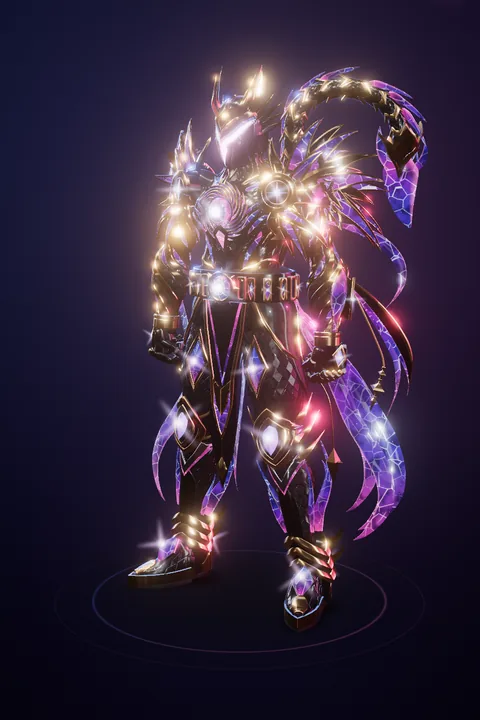
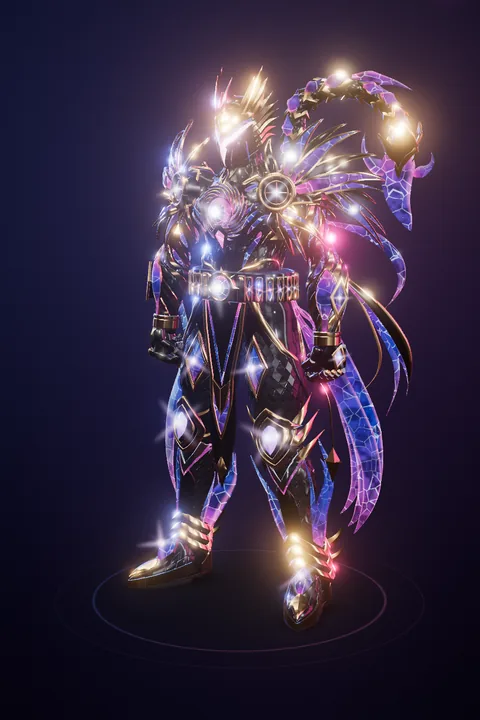
Checkpoint: Rexonance 3D viewer look pass in progress (10)
Work in progress from the viewer's material and lighting tuning pass; not
reviewed yet.

Claude-Session: https://claude.ai/code/session_01FA5sTyrULr2UMs5MDrUr75

Changed region(s): [[0.25, 0.0306, 0.9688, 0.8861]]

diff --git a/src/lib/rexonance-3d/materials.ts b/src/lib/rexonance-3d/materials.ts
@@ -232,7 +232,7 @@ const CRYSTAL_EMISSIVE = /* glsl */ `
   rxEmit += mix( vec3( 0.85, 0.92, 1.0 ), vec3( 1.0, 0.75, 0.95 ), rxSeedB ) * rxSpark * 6.0;
   rxEmit += mix( RX_ICE, RX_HOT, rxG ) * rxFres * 0.55;
   rxEmit += rxCol * smoothstep( 0.82, 1.0, rxVv ) * 0.45;
-  totalEmissiveRadiance += rxEmit * rxCrystalGlow;
+  totalEmissiveRadiance += rxEmit;
   diffuseColor.rgb = rxCol * 0.1;
 }
 `;
@@ -381,13 +381,11 @@ export function createRexonanceMaterial(
   const scales = family === "Suit" && Boolean(options.scales);
   const detail = options.crystalDetail ?? 2;
   const ribbonPhase = { value: options.phase ?? 0 };
-  const crystalGlow = { value: 1 };
+  // About 5 cm facets: the crystal reads as cut planes, not as a mesh of cracks.
   const facetDensity = { value: 19 };
-  material.userData.rexonance = { family, crystalGlow, facetDensity };
   material.onBeforeCompile = (shader) => {
     Object.assign(shader.uniforms, uniforms, {
       rxRibbonPhase: ribbonPhase,
-      rxCrystalGlow: crystalGlow,
       rxFacetDensity: facetDensity,
     });
     shader.defines = { ...shader.defines };
@@ -410,7 +408,7 @@ export function createRexonanceMaterial(
 
     let fragment = shader.fragmentShader.replace(
       "#include <common>",
-      `#include <common>\n${COMMON_PARS}\n${HASH}\nuniform sampler2D rxScaleMap;\nuniform float rxScaleTile;\nuniform float rxScaleStrength;\nuniform float rxCrystalGlow;\nuniform float rxFacetDensity;\n${
+      `#include <common>\n${COMMON_PARS}\n${HASH}\nuniform sampler2D rxScaleMap;\nuniform float rxScaleTile;\nuniform float rxScaleStrength;\nuniform float rxFacetDensity;\n${
         crystal ? "varying vec4 vRxTint;\nvarying vec2 vRxUv;\n" : ""
       }`,
     );
@@ -442,13 +440,4 @@ reflectedLight.directSpecular *= mix( 0.45, 1.0, rxCavity );
   material.customProgramCacheKey = () =>
     `rx3d-v1-${family}-${ribbon ? "r" : ""}${scales ? "s" : ""}${crystal ? detail : ""}`;
   return material;
-}
-
-/** Strength of the crystals' emission (the page dims it slightly while the reference panel
- * is open, so the sheet and the model read at the same brightness). */
-export function setRexonanceCrystalGlow(material: THREE.Material, value: number) {
-  const handles = material.userData.rexonance as
-    | { crystalGlow: { value: number } }
-    | undefined;
-  if (handles) handles.crystalGlow.value = value;
 }

diff --git a/src/lib/rexonance-3d/studio.ts b/src/lib/rexonance-3d/studio.ts
@@ -269,21 +269,24 @@ void main() {
   };
 }
 
-/** Direct lights on top of the environment: a warm key for crisp lacquer highlights, a cool
- * fill, and the blue and pink rims that edge the silhouette as in the sheet. */
-export function createLightRig() {
+/** Direct lights on top of the environment, carried by the camera so the suit is drawn the
+ * same way from every side, as in the sheet: a warm key above the viewer's left for crisp
+ * lacquer highlights, a cool fill, a blue rim behind the figure's left edge and a pink one
+ * behind its right. (The PMREM room stays fixed in the world, so reflections still travel
+ * across the armour as it turns.) Add the rig to the camera; every light aims at `target`. */
+export function createLightRig(target: THREE.Object3D) {
   const rig = new THREE.Group();
   rig.name = "RexonanceLights";
-  const key = new THREE.DirectionalLight(0xfff1e2, 1.8);
-  key.position.set(-3, 6, 5);
-  const fill = new THREE.DirectionalLight(0xdfe8ff, 0.55);
-  fill.position.set(5, 2, 4);
-  const blue = new THREE.DirectionalLight(0x5b86ff, 1.9);
-  blue.position.set(-5, 2.5, -4.5);
-  const pink = new THREE.DirectionalLight(0xff63bd, 1.2);
-  pink.position.set(5, 2.5, -4.5);
-  const top = new THREE.DirectionalLight(0xffffff, 0.8);
-  top.position.set(0, 10, 0.5);
-  rig.add(key, fill, blue, pink, top);
+  const light = (color: number, intensity: number, x: number, y: number, z: number) => {
+    const directional = new THREE.DirectionalLight(color, intensity);
+    directional.position.set(x, y, z);
+    directional.target = target;
+    rig.add(directional);
+  };
+  light(0xfff1e2, 1.8, -3, 4, 1); // key
+  light(0xdfe8ff, 0.5, 4, 1, 1); // fill
+  light(0x5b86ff, 1.35, -7, 2.5, -14); // blue rim, behind the left edge
+  light(0xff63bd, 0.9, 7, 2.5, -14); // pink rim, behind the right edge
+  light(0xffffff, 0.7, 0, 9, -6); // top
   return rig;
 }

diff --git a/src/lib/rexonance-3d/scene.ts b/src/lib/rexonance-3d/scene.ts
@@ -123,7 +123,10 @@ export function createRexonanceScene(
   scene.environmentIntensity = 1;
   const backdrop = createBackdrop();
   scene.add(backdrop.mesh);
-  scene.add(createLightRig());
+  const lightTarget = new THREE.Object3D();
+  lightTarget.name = "RexonanceLightTarget";
+  lightTarget.position.set(0, 1, 0);
+  scene.add(lightTarget);
   const figure = new THREE.Group();
   figure.name = "RexonanceFigure";
   scene.add(figure);
@@ -133,6 +136,8 @@ export function createRexonanceScene(
 
   const camera = new THREE.PerspectiveCamera(30, 1, 0.05, 60);
   camera.position.set(2.5, 1.4, 6);
+  camera.add(createLightRig(lightTarget));
+  scene.add(camera);
   const controls = new OrbitControls(camera, canvas);
   controls.enableDamping = true;
   controls.dampingFactor = 0.08;
@@ -156,7 +161,7 @@ export function createRexonanceScene(
   hdr.texture.name = "Rexonance.hdr";
   const composer = new EffectComposer(renderer, hdr);
   const renderPass = new RenderPass(scene, camera);
-  const bloom = new UnrealBloomPass(new THREE.Vector2(256, 256), 0.4, 0.35, 1.5);
+  const bloom = new UnrealBloomPass(new THREE.Vector2(256, 256), 0.4, 0.35, 1.7);
   bloom.enabled = quality.bloom;
   const output = new OutputPass();
   const fxaa = samples === 0 ? new FXAAPass() : null;
@@ -632,6 +637,7 @@ export function createRexonanceScene(
     figure.updateMatrixWorld(true);
     frameBox.setFromObject(root);
     orbitCenter.set(0, frameBox.getCenter(new THREE.Vector3()).y, 0);
+    lightTarget.position.copy(orbitCenter);
     uniforms.rxHeight.value = heightM;
     uniforms.rxChest.value.set(axis.x, all.min.y + heightM * 0.68, axis.z + 0.02);
     const bodyAxisWorld = new THREE.Vector3(0, frameBox.min.y + heightM * 0.55, 0);

diff --git a/vite.config.ts b/vite.config.ts
@@ -133,6 +133,9 @@ export default defineConfig(({ command }) => ({
     host: "0.0.0.0",
     port: 8080,
     strictPort: true,
+    // Dev only: the Blender builds write renders and GLBs under output/ every few seconds;
+    // watching them made the dev server full-reload open pages (2026-10-30).
+    watch: { ignored: ["**/output/**"] },
   },
   resolve: { tsconfigPaths: true },
   plugins: [
